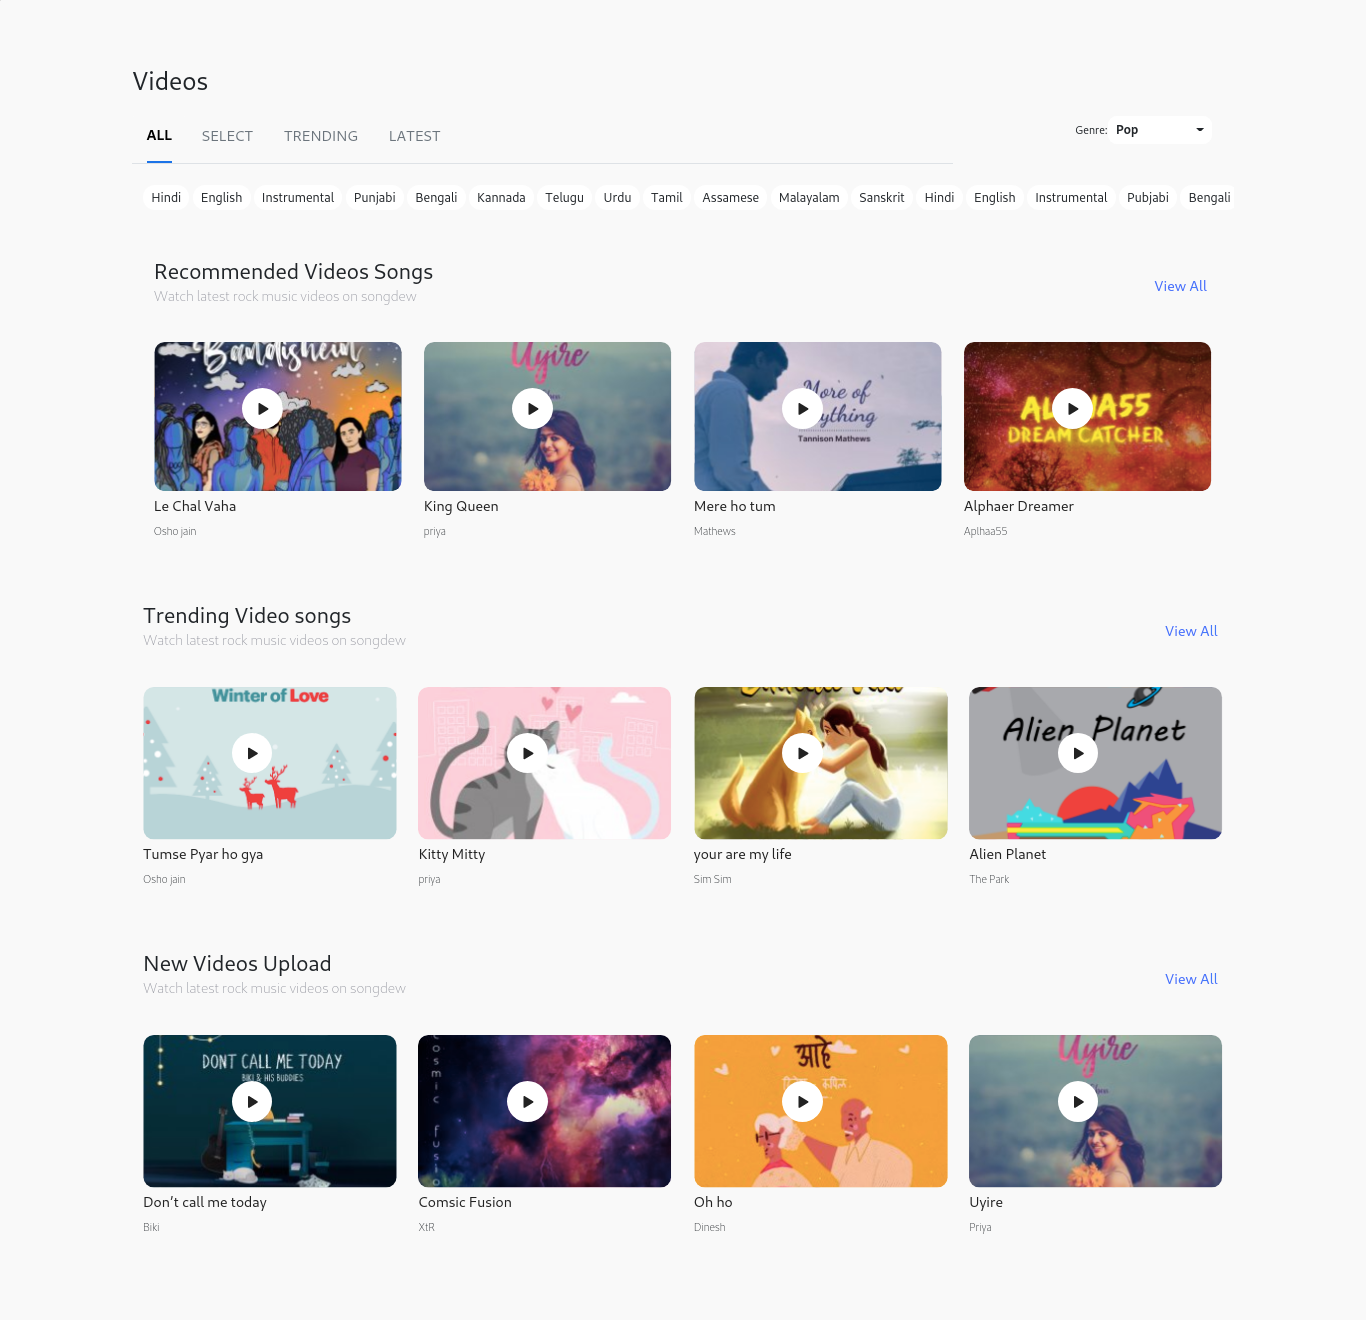
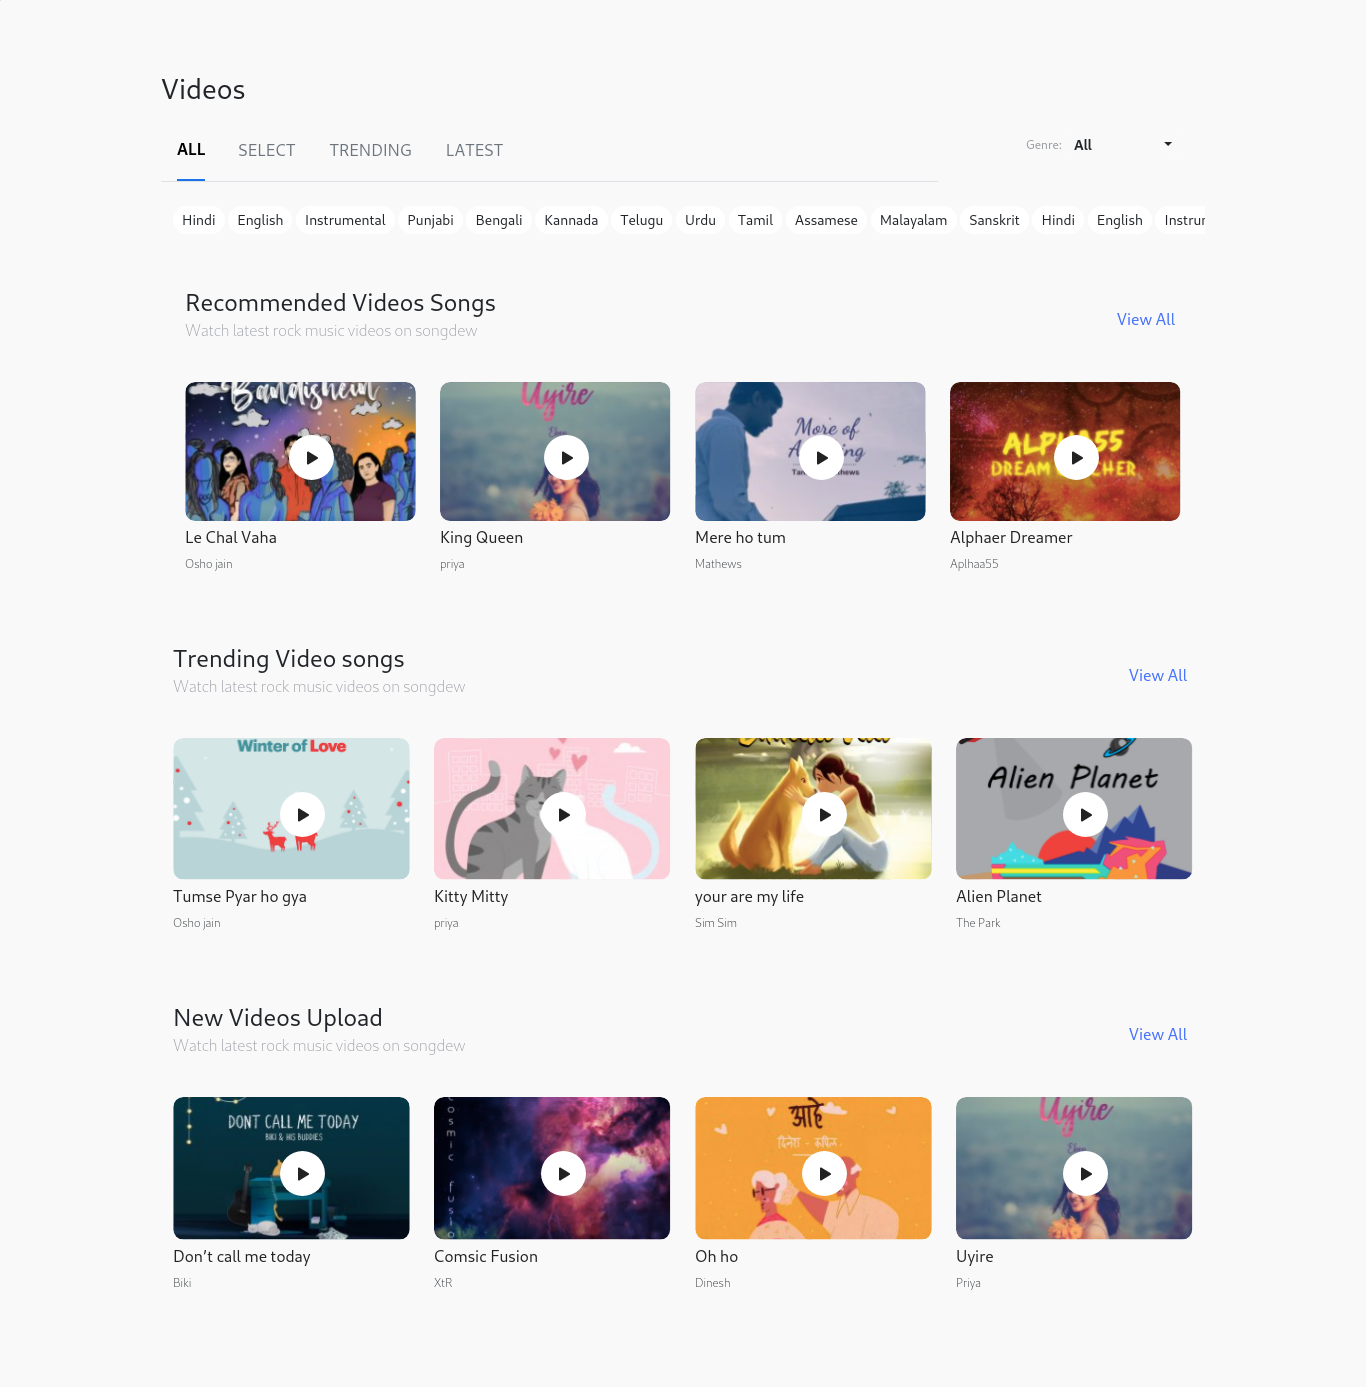
genre

diff --git a/Task-2/css/styles.css b/Task-2/css/styles.css
@@ -19,6 +19,14 @@ h5 {
   font-family: "system-ui";
 }
 
+p.genre {
+  font-size: 12px;
+  height: 18px;
+  color: #989aa3;
+  margin: 0px;
+  margin-right: 3px;
+}
+
 span.bg-light {
   background-color: #eff1f4 !important;
   font-weight: 400;
@@ -100,7 +108,6 @@ img.img2 {
   height: 45px;
 }
 
-
 h4.popings {
   font-style: normal;
   font-weight: 500;
@@ -171,20 +178,60 @@ div.underline {
 }
 
 button.dropdown-toggle {
-  background-color: #fff;
+  background-color: #f9f9f9;
   border-radius: 10px;
   width: 116px;
+}
+
+button.dropdown-toggle.show {
+  background-color: #fff;
+  border-bottom-right-radius: 0px;
+  border-bottom-left-radius: 0px;
+  width: 116px;
+  border-color: #fff;
+  /* padding-bottom: 8px; */
+}
+
+.btn-check:focus + .btn,
+.btn:focus {
+  outline: 0;
+  box-shadow: 0 0 0 0;
 }
 
 .dropdown-menu {
   min-width: 4rem;
   width: 116px;
+  border-color: #fff;
 }
 
 button.view {
   background-color: #f9f9f9;
   border: none;
   color: #3d67ff;
+}
+
+@media (max-width: 1000px) {
+  div.p-5 {
+    padding: 30px !important;
+  }
+
+  img.img2 {
+    position: absolute;
+    left: 33%;
+    top: 12%;
+  }
+
+  div.back {
+    display: none !important;
+  }
+}
+
+@media (max-width: 760px) {
+  img.img2 {
+    position: absolute;
+    left: 45%;
+    top: 40%;
+  }
 }
 
 @media (max-width: 500px) {
@@ -205,21 +252,6 @@ button.view {
   }
 }
 
-@media (max-width: 800px) {
-  div.p-5 {
-    padding: 30px !important;
-  }
-
-  img.img2 {
-    position: absolute;
-    left: 43%;
-    top: 33%;
-  }
-
-  div.back {
-    display: none !important;
-  }
-}
 
 @media (min-width: 800px) {
   img.m-2.logo {

diff --git a/Task-2/index.html b/Task-2/index.html
@@ -44,14 +44,15 @@
       <div class="col-md-3">
         <div class="sort container d-flex justify-content-end align-items-center">
           <div>
-            <p class="m-0" style="font-size: 12px;">Genre: </p>
+            <p class="genre">Genre: </p>
           </div>
           <div class="btn-group featured">
             <button type="button" class="btn btn-sm dropdown-toggle d-flex justify-content-between align-items-center"
               data-bs-toggle="dropdown" aria-expanded="false">
-              <b>Pop</b>
+              <b>All</b>
             </button>
             <ul class="dropdown-menu">
+              <li><a class="dropdown-item" href="#">Pop</a></li>
               <li><a class="dropdown-item" href="#">Rock</a></li>
               <li><a class="dropdown-item" href="#">Alternative</a></li>
               <li><a class="dropdown-item" href="#">Acoustic</a></li>
